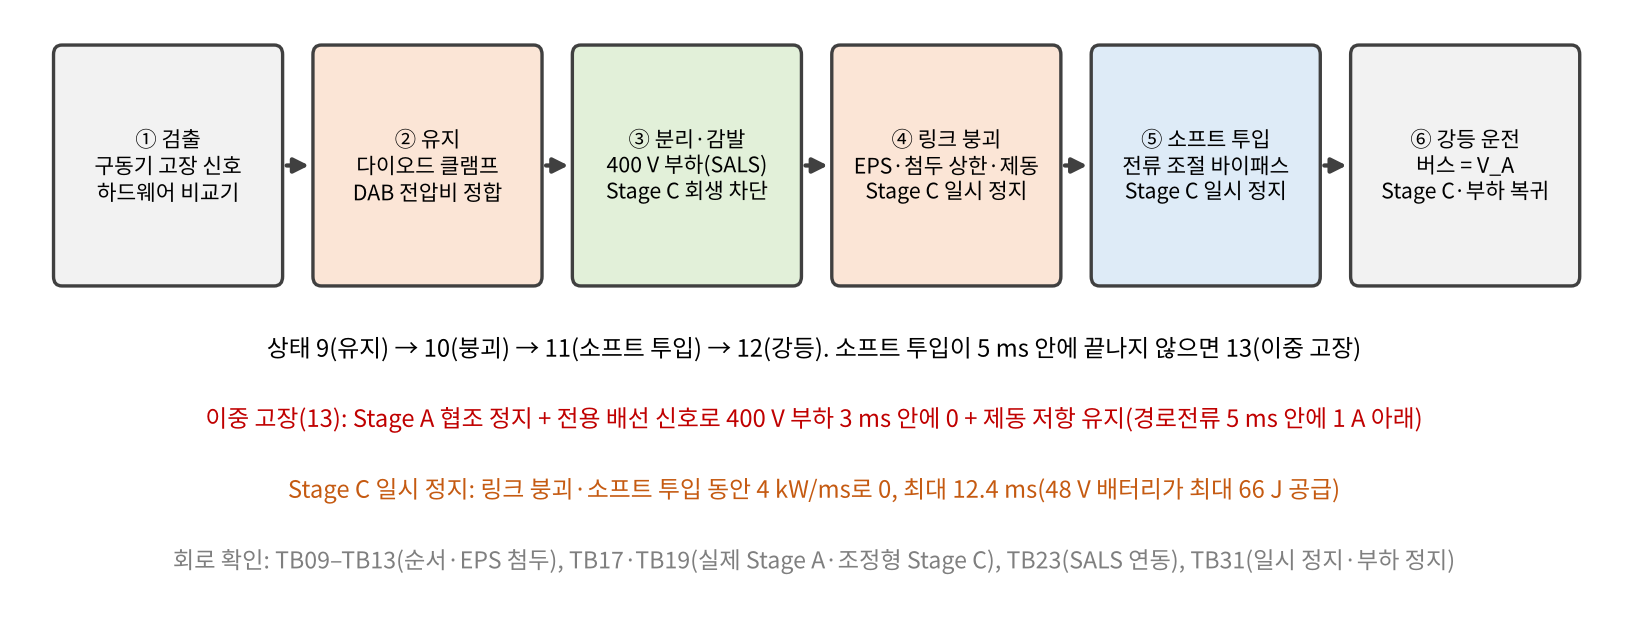
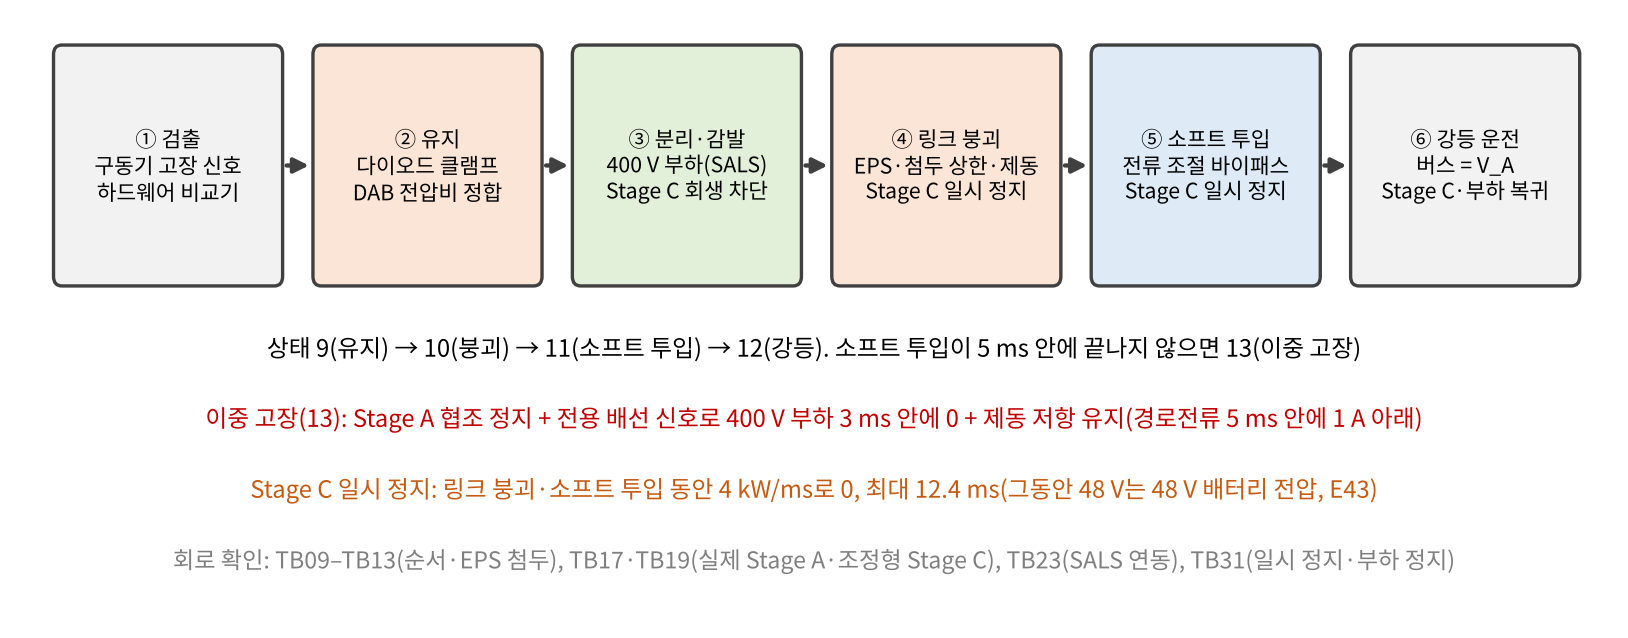
독립 확인 결과 반영: 손실 그림 E43 갱신, 논문 6쪽, docs/20 0절 정정, 근거 범위 문구
- fig6_2 오차막대를 E43 스위칭 배율 경우로 다시 그림(④ 85.9–127.6 W), fig9_1 일시 정지 문구
- 논문 6쪽으로 줄임, 결론·후속 과제에 48 V 배터리 단서, 18.9 mJ 문장 삭제
- docs/20 0절(범위·불통과·자기 가열·정적 등가·30 ms·48 V) 〔정정 2026-11-05〕, README 최종 갱신일
- 기여 1(b) 회로 근거(48 V 포함 TB28·30·32·33), 검토 과정 문장, 요약 결론 5, E43 출처, 클램프 스위치 범위 최대 온도, H3 대표 사례(TB28, 설계 선택 사례 표시), 66 J 구분, 사양 팩 ε −1 % 최대 켜짐 도달, docs/48 배터리 판정 범위

Claude-Session: https://claude.ai/code/session_01Qz3Pq1XT4GoX9UD7qvXAd4

Changed region(s): [[0.1536, 0.7445, 0.86, 0.8041]]

diff --git a/report/final/tex/chapters/ch00_summary.tex b/report/final/tex/chapters/ch00_summary.tex
@@ -16,7 +16,7 @@ PRISM-Hub는 800 V급 전기자동차의 통합 직류 전력 허브다. 처음 
 \item \textbf{R2의 보조 경로 손실은 400 V급 보조부품을 쓰는 기존 방식과 같은 수준이며, 손실을 이점으로 주장하지 않는다(15장).} 같은 손실 규칙과 같은 경부하 기법으로 비교하면 모터·인버터 승압 구조(⑤)와 0.5 \% 차이(101.5 대 102.1 W)이고, 손실 모델 계수에 따라 $-25 \ldots +11$ \%로 부호가 바뀐다. 800 V급 보조부품 설계(⑥)보다는 4--33 W 크다. V\textsubscript{A}가 부품 상한을 넘는 팩에 붙이는 창 조정 모듈도 같은 칸의 다른 성립 구조와 보조 손실이 같은 수준이다(7장). 375 A 충전 손실(입력 120--172.5 kW에서 0.52--0.64 kW)은 전용 승압기(16--50 kHz)의 0.32--0.51배, 모터 승압 기준점(상저항 10 mΩ)의 약 절반이고, 상저항 하한(5 mΩ)과는 같은 수준이다(0.91–1.01배, 920 V에서는 하한보다 6 W 크다).
 \item \textbf{Stage A 손실 모델의 오류를 찾아 설계를 바꿨다(13·14장).} 영전류 스위칭에서도 스위치 출력용량은 하드 스위칭되므로, 원설계(150 kHz)의 위상당 출력용량 손실은 175 W였다(이전 모델 14 W). 영전류 게이트로는 150·100 kHz에서 성립하는 설계가 없었다. 공진주파수를 25 kHz로 낮추고 V\textsubscript{A} 노드 커패시터를 6배로 키운 A25R은 요구 안의 과도·모듈 고장·충전 중 정지를 모델과 회로에서 통과했다. 이전 결론을 A25R로 다시 계산해 바뀐 세 가지를 밝혔다.
 \item \textbf{보조버스와 48 V의 연속성은 시험 종류별로 범위가 다르다(8--12장).} 최종 설계(A25R)의 충전 램프·충전 중 경로 상실·Stage A 모듈 고장 대표 회로에서 버스와 48 V 유지를 확인했다(H3 조건: 충전 전 Stage A 사전 기동, 충전전류 증가 램프 600 µs 이상). 창 조정 모듈의 DAB·H-브리지 고장 강등과 400 V 부하 분리·감발 연동, 48 V 회생 차단은 평균모델과 150 kHz Stage A 회로에서 확인했다. 최종 보호 순서에서는 H-브리지 고장 강등 동안 Stage C가 최대 12.4 ms 멈추므로 그동안 48 V는 48 V 배터리 전압을 따른다. 배터리 등가 계산(E43)에서 무제한 운전 범위(36–52 V) 안이었지만 ±2 \% 조정은 유지되지 않으며, 배터리를 넣은 결합 시험은 하지 않았다.
-\item \textbf{부품 정격을 데이터시트로 판정하고, 남은 불통과를 설계 변경으로 풀었다(16장).} 바이패스 소프트 투입은 링크 붕괴·투입 동안 Stage C를 일시 정지해(최대 12.4 ms) 기존 바이패스 GaN 1개로 통과했고, 이중 고장 경로전류는 400 V 부하를 전용 배선 신호로 3 ms 안에 멈춰 통과했다. V\textsubscript{A} 클램프는 판정 규칙을 보수 쪽으로 바꿀 때마다(공칭 저항 → 저항 공차·온도계수·노화 → 최대 열저항 → 전형값만 있는 손실 인자의 보수 규칙) 다시 골라 네 번 바뀌었다. 최종 설계는 \textbf{가지 3개 × 2.4 Ω + SiC 스위치 FF2MR12KM1P(접합온도 125.1 °C)}이고, 오동작으로 켜진 클램프가 꺼지지 않는 실패 모드를 막는 \textbf{최대 연속 켜짐 시간 0.5 ms}와 문턱 검출 정확도 요구($-1.0 \ldots +0.10$ \%)를 더했다.
+\item \textbf{부품 정격(조건부 후보 선정)을 데이터시트로 판정하고, 그 불통과를 설계 변경으로 풀었다(해당 계산 조건, 16장).} 바이패스 소프트 투입은 링크 붕괴·투입 동안 Stage C를 일시 정지해(최대 12.4 ms) 기존 바이패스 GaN 1개로 통과했고, 이중 고장 경로전류는 400 V 부하를 전용 배선 신호로 3 ms 안에 멈춰 통과했다. V\textsubscript{A} 클램프는 판정 규칙을 보수 쪽으로 바꿀 때마다(공칭 저항 → 저항 공차·온도계수·노화 → 최대 열저항 → 전형값만 있는 손실 인자의 보수 규칙) 다시 골라 네 번 바뀌었다. 최종 설계는 \textbf{가지 3개 × 2.4 Ω + SiC 스위치 FF2MR12KM1P(접합온도 125.1 °C)}이고, 오동작으로 켜진 클램프가 꺼지지 않는 실패 모드를 막는 \textbf{최대 연속 켜짐 시간 0.5 ms}와 문턱 검출 정확도 요구($-1.0 \ldots +0.10$ \%)를 더했다.
 \end{enumerate}
 
 \begin{longtable}{L{0.22\linewidth}L{0.72\linewidth}}

diff --git a/report/final/tex/chapters/ch18_hypotheses.tex b/report/final/tex/chapters/ch18_hypotheses.tex
@@ -111,7 +111,7 @@ E38 & 클램프 한 가지 저항 불성립, 5 ms 정지 램프에서 직렬 114
 \item \textbf{하드웨어 시험이 없다.} 모든 판정은 해석·평균모델·스위칭 모델·소자 수준 회로 모델·데이터시트 대조 안에서만 유효하다. 회로 모델의 스위치 셀은 이상 스위치, 다이오드와 선형 출력용량이며, 게이트 드라이버, 배선 기생성분, 열, 절연과 전자기 간섭은 넣지 않았다.
 \item \textbf{손실 비교는 같은 규칙의 상대 비교다.} 측정된 2:1 하드웨어(100 kW, 전부하 97.4 \%)와 모델의 차가 크다. 최종 설계의 손실 모델은 정격 충전점 회로와 3.0 \% 안에서 맞았다(TB27). 평균모델의 DAB 고정 효율 가정은 구조 간 손실 비교에 쓰지 않는다. 모터 승압 손실은 리플 철손·자석 손실이 없어 하한 쪽이다. E41의 ⑤ 25 kHz 경우는 자성체 손실·크기 증가가 손실 규칙에 없어 ⑤에 유리한 끝값이다. 가치 지도의 공정 기준 재계산(E42)은 Stage A 고정 손실 민감도를 넣지 않았다(확장 전압 격자의 변형이 없음).
 \item \textbf{A25R로 다시 확인하지 않은 것.} 멈춘 모듈 C\textsubscript{fly} 전압 요구(−10–0 V), 225 kW(12–16위상) 충전의 회로, Stage B 보호·강등 시험(E17, E19–E21; V\textsubscript{A}를 이상 전원으로 둠. 이중 고장과 소프트 투입만 다시 확인)이다.
-\item \textbf{Stage A 정적 등가.} V\textsubscript{A} 노드 공진보다 느린 외란에서만 맞는다. C\textsubscript{A} 2.4 mF에서는 C\textsubscript{A}·R\textsubscript{A} 시정수(5–22 µs)가 제어주기보다 길다. 충전 중 보조버스 시험(E16을 A25R 출력저항으로 다시 계산한 E36)의 정적 관계가 모든 판정량에서 보수적이라는 증명은 없다. 공진, 정전력 부하, 제어기 위상과 전류 첨두가 결합하면 전압 변화의 지연만으로 상한을 정할 수 없고, TB07과 TB33은 정적 등가에 없는 순간 동특성을 보였다. 그래서 H3의 최종 설계 결론은 정적 등가의 사례 집합과 결합 모델·회로의 대표 사례(E35 과도 6/6·모듈 고장 16/16, TB27 4/4)로 한정한다.
+\item \textbf{Stage A 정적 등가.} V\textsubscript{A} 노드 공진보다 느린 외란에서만 맞는다. C\textsubscript{A} 2.4 mF에서는 C\textsubscript{A}·R\textsubscript{A} 시정수(5–22 µs)가 제어주기보다 길다. 충전 중 보조버스 시험(E16을 A25R 출력저항으로 다시 계산한 E36)의 정적 관계가 모든 판정량에서 보수적이라는 증명은 없다. 공진, 정전력 부하, 제어기 위상과 전류 첨두가 결합하면 전압 변화의 지연만으로 상한을 정할 수 없고, TB07과 TB33은 정적 등가에 없는 순간 동특성을 보였다. 그래서 H3의 최종 설계 결론은 정적 등가의 사례 집합과 결합 모델·회로의 대표 사례(E35 과도 6/6(설계 선택에 쓴 5사례 포함)·모듈 고장 16/16, TB27 4/4, TB28 4/4)로 한정한다.
 \item \textbf{새 인터페이스 요구의 실제 응답.} Stage C 입력 제한(4 kW/ms 정지·재개)과 400 V 부하(V2L·컴프레서·히터 인버터)의 3 ms 정지는 모델의 가정이다. Stage C 일시 정지 동안의 48 V는 배터리 등가(OCV·내부저항)로만 계산했다(E43: E22 등가에서 41.6–45.7 V, 36 V 유지 요구 R\textsubscript{b} ≤ 57.6 mΩ). 배터리 인덕턴스·온도·SOC와 Stage C 재개 과도를 넣은 결합 시험은 하지 않았다. 따라서 최종 보호 순서의 H-브리지 고장 강등에서 48 V가 ±2 \% 안으로 유지된다고 주장하지 않는다.
 \item \textbf{고전압 팩(224·240s)의 충전 중 정지}는 V\textsubscript{A} 수준 모델만 확인했다(Stage B 결합·회로 없음). R2-W410 회로는 평균모델·스위칭 모의만 있다.
 \item \textbf{회로 시험의 시간 축소.} 400 V 부하 분리(20 → 3 ms), 충전기 정지(30 → 3 ms), SALS 시간(0.15배)을 줄였고 기준값도 같은 축소로 계산했다. 회로의 충전기는 이상 전류원, 클램프 스위치는 이상 스위치, 부품값은 공칭이다. 부하는 계약을 지킨다고 두었다.

diff --git a/report/final/tex/chapters/ch12_charging_stop.tex b/report/final/tex/chapters/ch12_charging_stop.tex
@@ -171,7 +171,7 @@ E39 & + 최대 열저항(없으면 × 1.2), 가지 저항 섞임 & 같은 저항
 \begin{itemize}
 \item \textbf{높은 쪽.} 켬 문턱 468 V와 상한 470 V 사이가 클램프 지연 동안의 상승(약 1.3 V)을 빼면 0.67 V뿐이라, 사양 팩은 ε = +0.10 \%에서 C1 469.80 V로 통과, +0.15 \%에서 470.04 V로 불통과였다. R2-W460은 상한 530 V까지 여유가 커서 +1.0 \%도 통과했다.
 \item \textbf{낮은 쪽.} 고장 없이 t\textsubscript{0} = 1 ms에 클램프를 강제로 켠 오동작 사건에서, ε = −1 \%일 때만 클램프가 켜진 채 붙잡혔다. M이 이를 0.501 ms에 끊었고 다시 켜지지 않았다(가지 ≤ 59–63 J, 스위치 ≤ 102.8 °C).
-\item \textbf{요구 정확도.} 클램프 문턱 검출은 \textbf{사양 팩 −1.0 … +0.10 \%, R2-W460 −1.0 … +1.0 \%}이어야 한다(낮은 쪽은 M이 있을 때). 사양 팩의 +0.10 \%는 엄격하며(C1 469.80 V, 상한까지 0.20 V), 이를 낼 검출 회로는 확인하지 않았다(19장). R2-W460의 +1.0 \%에서는 가지 에너지(3,763.5 J)가 저항 자기 가열 가정(3,750 J)을 0.36 \% 넘었다(외부 검토 2026-11-05). 가정이 정확도 범위 전체의 최대 에너지를 덮도록 3,800 J로 올려 다시 판정했고(E43), 두 팩 모두 정확도 범위의 모든 문턱에서 C1·가지 에너지·스위치 판정을 통과했다(사양 팩 최대 469.80 V·3,408 J·125.1 °C, R2-W460 최대 516.34 V·3,764 J·125.9 °C). 가정을 올려도 모서리 저항은 바뀌지 않아(작은 저항 모서리는 저온 쪽이 정함) 값은 E40과 같았다.
+\item \textbf{요구 정확도.} 클램프 문턱 검출은 \textbf{사양 팩 −1.0 … +0.10 \%, R2-W460 −1.0 … +1.0 \%}이어야 한다(낮은 쪽은 M이 있을 때). 사양 팩의 +0.10 \%는 엄격하며(C1 469.80 V, 상한까지 0.20 V), 이를 낼 검출 회로는 확인하지 않았다(19장). R2-W460의 +1.0 \%에서는 가지 에너지(3,763.5 J)가 저항 자기 가열 가정(3,750 J)을 0.36 \% 넘었다(외부 검토 2026-11-05). 가정이 정확도 범위 전체의 최대 에너지를 덮도록 3,800 J로 올려 다시 판정했고(E43), 두 팩 모두 정확도 범위의 모든 문턱에서 C1·가지 에너지·스위치 판정을 통과했다(사양 팩 최대 469.80 V·3,408 J·125.1 °C, R2-W460 최대 516.34 V·3,764 J·125.9 °C). 가정을 올려도 모서리 저항은 바뀌지 않아(작은 저항 모서리는 저온 쪽이 정함) 값은 E40과 같았다. 이 경로 상실 사건들에서 R2-W460은 모든 문턱에서, 사양 팩은 ε = −1 \%에서 클램프가 최대 연속 켜짐 시간(0.5 ms)에 닿아 강제로 끊겼다(판정은 위와 같이 통과).
 \end{itemize}
 
 회로 확인(TB33)은 TB32 회로에 최종 클램프(가지 1 = 가지 하나, 가지 2 = 나머지 두 가지의 등가)와 최대 연속 켜짐 시간을 넣어 했다(표 \ref{t:tb33}).
@@ -226,7 +226,7 @@ D33b 진단: C33에서 끔 문턱만 400 V(판정 아님) & — & 최대 켜짐 
 \bottomrule
 \endlastfoot
 V\textsubscript{A} 클램프 저항 & 가지 3개 × 891SP 2.4 Ω(R2-W460 2.7 Ω), 가지 저항 에너지 ≤ 3,405·3,729 J(공칭 문턱), 문턱 정확도 범위 안 최대 3,408·3,764 J(정격 15 kJ) & E38, E40, E43 \\
-클램프 스위치 & 가지마다 SiC FF2MR12KM1P(125.1·124.9 °C), 대체 CAB530M12BM3(131.4·131.1 °C), 같은 게이트 & E39, E40 \\
+클램프 스위치 & 가지마다 SiC FF2MR12KM1P(125.1·124.9 °C, 문턱 정확도 범위 안 최대 125.1·125.9 °C), 대체 CAB530M12BM3(131.4·131.1 °C), 같은 게이트 & E39, E40, E43 \\
 클램프 문턱·지연 & 사양 팩 468 V 켬·463 V 끔, R2-W460 511·506 V, 지연 ≤ 1 µs. 적용은 V\textsubscript{bat} 최대 920 V 이하 팩(사양 설정) & E26, E38 \\
 최대 연속 켜짐 시간 & 0.5 ms(설계 변경 M) & E40, TB33 \\
 문턱 검출 정확도 & 사양 팩 −1.0 … +0.10 \%, R2-W460 −1.0 … +1.0 \% & E40 \\

diff --git a/report/final/tex/chapters/ch07_value_map.tex b/report/final/tex/chapters/ch07_value_map.tex
@@ -124,4 +124,4 @@ E 켬 & 930 V, 25 kW & 경로 ≤ 73.4 A, 버스 ≤ 465.4 V, 최종 460.02 V \\
 \item \textbf{보호 오동작.} 하드웨어 버스 과전압 비교기(문턱 = 상한)가 측정 오차·잡음(3σ)·제어 주기 안 리플 여유(0.1 V)로 잘못 차단하지 않는지, 버스 조정 상실 판단(|측정 − V\textsubscript{W}| > 20 V가 0.5 ms)이 잘못 걸리지 않는지 확인했다.
 \end{itemize}
 
-결과는 네 변형 모두 144/144 통과였다. 이상 측정 기준 자체도 창 조정 모듈을 스위칭 수준에서 처음 판정한 것이며 모두 통과했다. S1 변형에서 마지막 1 ms 리플은 최대 0.057 V(기준 0.1 V), 필터전류 꼬리 진동 0.614 A\textsubscript{pp}(기준 1 A), 순시 경로·브리지 전류 90.6 A(기준 98 A)였다. 이득·오프셋 오차는 조정점을 옮겨 실제 버스가 R2-W460에서 457.6–462.4 V로 정착했고, 실제 버스 최대는 466.7 V(R2-W410 417.0 V)로 상한 안이었다. 비교기 쪽 측정 최대는 464.5 V(R2-W410 414.9 V)로 잘못된 차단이 없었고, 조정 상실 판단도 한 번도 걸리지 않았다. 최종 설계 사건의 V\textsubscript{A}·버스 최대는 516.3 V(W460 클램프, 문턱 +1 \%)여서 600 V 범위가 그 1.1배(568 V)를 덮는다. 그래서 S1을 R2의 측정 사양으로 채택했다(3장 표 \ref{t:req}). 한계는 센서를 이득·오프셋·잡음·양자화·포화로만 모델링해 센서 대역폭을 따로 넣지 않았다는 점(지연은 제어 지연 예산에 있음)과, 보호 오동작 확인이 측정 오차를 실제 궤적에 더한 보수 계산이라는 점이다. 창 조정 모듈의 고장 강등(E17·E19–E21)은 이 사양으로 다시 계산하지 않았다.
+결과는 네 변형 모두 144/144 통과였다. 이상 측정 기준 자체도 창 조정 모듈의 Tier-1·Tier-2 계단 전체를 Python 스위칭 모델(E12 방식)로 처음 판정한 것이며(회로 TB08은 5사례) 모두 통과했다. S1 변형에서 마지막 1 ms 리플은 최대 0.057 V(기준 0.1 V), 필터전류 꼬리 진동 0.614 A\textsubscript{pp}(기준 1 A), 순시 경로·브리지 전류 90.6 A(기준 98 A)였다. 이득·오프셋 오차는 조정점을 옮겨 실제 버스가 R2-W460에서 457.6–462.4 V로 정착했고, 실제 버스 최대는 466.7 V(R2-W410 417.0 V)로 상한 안이었다. 비교기 쪽 측정 최대는 464.5 V(R2-W410 414.9 V)로 잘못된 차단이 없었고, 조정 상실 판단도 한 번도 걸리지 않았다. 최종 설계 사건의 V\textsubscript{A}·버스 최대는 516.3 V(W460 클램프, 문턱 +1 \%)여서 600 V 범위가 그 1.1배(568 V)를 덮는다. 그래서 S1을 R2의 측정 사양으로 채택했다(3장 표 \ref{t:req}). 한계는 센서를 이득·오프셋·잡음·양자화·포화로만 모델링해 센서 대역폭을 따로 넣지 않았다는 점(지연은 제어 지연 예산에 있음)과, 보호 오동작 확인이 측정 오차를 실제 궤적에 더한 보수 계산이라는 점이다. 창 조정 모듈의 고장 강등(E17·E19–E21)은 이 사양으로 다시 계산하지 않았다.

diff --git a/report/final/tex/chapters/ch04_verification.tex b/report/final/tex/chapters/ch04_verification.tex
@@ -38,15 +38,12 @@
 
 \section{검토 과정}
 
-검증 결과는 다섯 번의 외부·최종 검토를 거쳤다. 지적은 모두 재현으로 확인한 뒤 판정 기준을 실행 전에 정하고 다시 판정했다.
+검증 결과는 다섯 번의 외부·최종 검토를 거쳤다. 지적은 모두 재현으로 확인했다. 계산이 필요한 지적은 판정 기준을 실행 전에 정해 다시 판정했고, 나머지는 결론과 문구를 고쳤다.
 
 \begin{itemize}
 \item \textbf{외부 검토(2026-10-29).} 손실 비교의 Stage C가 이전 설계였던 점, V\textsubscript{A} 클램프를 공칭 저항값과 125 °C 손실값으로만 판정한 점, 고전압 팩에 사양 팩의 클램프 설정을 쓴 점, 충전 표기·충전 손실 환산 등 여섯 곳을 지적받았다. 모두 재현으로 타당함을 확인하고 다시 계산했다(E38, TB30·TB31).
 \item \textbf{재검토(2026-10-29).} 클램프 스위치를 전형 열저항으로 판정했고 두 가지의 저항이 서로 다른 모서리인 경우를 보지 않았음을 지적받아, 최대 열저항과 가지 저항 섞임으로 다시 판정했다(E39, TB32).
 \item \textbf{보고서 작성 전 최종 검토(2026-10-29).} 검토자 여섯이 최종 수치·부품 정격·진행 기록·재현·참고문헌·공학적 근거를 나눠 다시 보았다. 판정·결론에 영향을 줄 수 있는 지적 네 가지(클램프 스위치의 전형값 손실 인자, ④ 대 ⑤ 비교의 공정성, 클램프 문턱 오차에 따른 계속 켜짐, C\textsubscript{A} 후보 표)를 E40·E41·TB33으로 정리했다. 핵심 수치 재실행 10개 부분은 저장 결과와 같았다.
-\end{itemize}
-
-\begin{itemize}
 \item \textbf{최종 보고서 독립 검토(2026-11-03).} 가치 지도의 ①이 보조 강압기를 경부하 셰딩 없이 두어 비교 조건이 공정하지 않음을 지적받아 공정 기준으로 다시 계산했다(E42). 창 조정 모듈의 보조 손실 이점 주장을 거두었다.
 \item \textbf{제출 전 외부 검토(2026-11-05).} 버스 측정 범위(350–450 V)가 최종 창 조정 설계와 맞지 않는 점, 최종 보호 순서의 48 V 유지가 배터리 없이 주장된 점, 정적 등가의 보수성 단정, 손실 민감도의 스위칭 배율이 Stage A 출력용량 항에 빠진 점, 클램프 자기 가열 가정이 문턱 정확도 끝에서 부족한 점, 사전 기준·불통과 표현, ISO·충전기 시험 항목의 적용 범위, 출력용량 손실의 소모 위치 설명, 참고문헌·조판을 지적받았다. 계산이 필요한 네 가지는 E43으로 다시 판정했고, 나머지는 결론과 문구의 범위를 좁혔다.
 \end{itemize}

diff --git a/report/final/tex/chapters/ch09_protection.tex b/report/final/tex/chapters/ch09_protection.tex
@@ -311,7 +311,7 @@ Stage A를 A25R로 바꾸고 부품 정격을 데이터시트로 판정하자(16
 
 두 문제를 부하 쪽 설계 변경으로 풀었다(E38). 판정 기준은 원 시험(E29)과 부품 정격 표의 것을 그대로 썼다.
 
-\textbf{Stage C 보호 일시 정지.} H-브리지 고장 강등의 링크 붕괴와 소프트 투입 동안 Stage C를 4 kW/ms로 0까지 줄여 멈추고, 강등 0.5 ms 뒤 다시 켠다. 허브 내부의 제어이고, 멈춤 시간은 8.7–12.4 ms, 그 동안 48 V 배터리가 맡는 에너지는 최대 66 J다. 이 동안 48 V는 Stage C가 조정하지 않고 배터리 전압을 따르며, 무제한 운전 범위(36–52 V)를 지키는 배터리 요구는 10장에 도출했다(E43). 결과는 연동 강등 74/74, 시간 상한 투입 30사례 → 0사례, 최악 소프트 투입 에너지 0.036 J·첨두 104 W, EPC2305 1개의 접합온도 108.0 °C(통과, 16장의 보수 규칙으로 109.6 °C)다. 별도 선형 소자가 필요 없고, 강등 완료는 0.5–2.3 ms 빨라졌으며 제동 에너지 최대는 51.9 J다.
+\textbf{Stage C 보호 일시 정지.} H-브리지 고장 강등의 링크 붕괴와 소프트 투입 동안 Stage C를 4 kW/ms로 0까지 줄여 멈추고, 강등 0.5 ms 뒤 다시 켠다. 허브 내부의 제어이고, 멈춤 시간은 8.7–12.4 ms, 그 동안 48 V 배터리가 맡는 부하 쪽 에너지는 최대 66 J다(배터리 방전은 내부 손실을 더해 65–75 J, E43). 이 동안 48 V는 Stage C가 조정하지 않고 배터리 전압을 따르며, 무제한 운전 범위(36–52 V)를 지키는 배터리 요구는 10장에 도출했다(E43). 결과는 연동 강등 74/74, 시간 상한 투입 30사례 → 0사례, 최악 소프트 투입 에너지 0.036 J·첨두 104 W, EPC2305 1개의 접합온도 108.0 °C(통과, 16장의 보수 규칙으로 109.6 °C)다. 별도 선형 소자가 필요 없고, 강등 완료는 0.5–2.3 ms 빨라졌으며 제동 에너지 최대는 51.9 J다.
 
 \textbf{이중 고장의 400 V 부하 정지.} 이중 고장에 들어가면 Stage A를 멈추고, 전용 배선 신호로 모든 400 V 부하(Stage C 포함)를 정해진 램프로 0까지 줄인다. V\textsubscript{A} 노드 방전 저항은 두지 않는다. 램프 시간을 바꿔 가며 계산한 결과는 표 \ref{t:f2}와 같다.
 

diff --git a/report/final/tex/chapters/ch14_recalc.tex b/report/final/tex/chapters/ch14_recalc.tex
@@ -41,11 +41,11 @@ R2 버스(E23) & 기본형 3사례, 버스 임피던스 & E23과 같은 기준 \
 \begin{longtable}{L{\dimexpr 0.24\linewidth-2\tabcolsep\relax}L{\dimexpr 0.22\linewidth-2\tabcolsep\relax}L{\dimexpr 0.22\linewidth-2\tabcolsep\relax}L{\dimexpr 0.25\linewidth-2\tabcolsep\relax}L{\dimexpr 0.07\linewidth-2\tabcolsep\relax}}
 \caption{150 kHz 설계 값, A25R 재계산 값(E36), 최종 값}\label{t:recalc}\\
 \toprule
-\tabhead \textbf{항목} & \textbf{150 kHz(중간보고서)} & \textbf{A25R(E36)} & \textbf{최종(E38–E41)} & \textbf{장} \\
+\tabhead \textbf{항목} & \textbf{150 kHz(중간보고서)} & \textbf{A25R(E36)} & \textbf{최종(E38–E43)} & \textbf{장} \\
 \midrule
 \endfirsthead
 \toprule
-\tabhead \textbf{항목} & \textbf{150 kHz(중간보고서)} & \textbf{A25R(E36)} & \textbf{최종(E38–E41)} & \textbf{장} \\
+\tabhead \textbf{항목} & \textbf{150 kHz(중간보고서)} & \textbf{A25R(E36)} & \textbf{최종(E38–E43)} & \textbf{장} \\
 \midrule
 \endhead
 \bottomrule
@@ -91,7 +91,7 @@ A25R 재계산(E36)에서 바뀐 결론은 세 가지였다.
 
 \begin{itemize}
 \item \textbf{H5 기각.} ③은 ④에 손실·VA·위치 세 지표 모두 뒤진다(E36, E38). 손실 계수 감도와 운전 프로파일 3종에서도 같다.
-\item \textbf{충전 중 보조버스(H3)와 R2 버스·48 V.} E16·E23의 원 기준을 모두 통과했다(8.2절, 10.4절). H3의 조건은 사전 기동과 600 µs 램프로 바뀌었다.
+\item \textbf{충전 중 보조버스(H3)와 R2 버스·48 V.} E16·E23의 원 기준을 모두 통과했다(8.2절, 10.4절. E16은 Stage A 정적 등가로 다시 계산했고, 그 보수성은 증명하지 않았다, 18.4절). H3의 조건은 사전 기동과 600 µs 램프로 바뀌었다.
 \item \textbf{충전 중 정지에 클램프가 필요하다는 결론.} 920 V 충전에서는 클램프 없이 0.1 ms 안에 470 V에 닿는다. 회로 TB28은 4/4로 통과했고(12.4절), 새로 넣은 충전기 급정지(10 µs) 사례도 6/6 통과했다.
 \item \textbf{Stage A 충전 경로의 이점.} 375 A 충전 손실(0.52–0.64 kW)은 전용 승압기와 모터 승압 기준점보다 작다(15장).
 \end{itemize}

diff --git a/report/final/tex/chapters/ch16_parts.tex b/report/final/tex/chapters/ch16_parts.tex
@@ -31,7 +31,7 @@ P1 & Stage A 스위치 & Wolfspeed C4MS008075U2 × 2(위치당) & 차단 518 V, 
 P2 & 플라잉 커패시터 46.9 µF & CastorCap CC7.5u1300 × 6(위상당 45.0 µF) & 위상 실효 52.5 A(공차 표본 60.9 A) & \textbf{통과, 단서}: 전류 정격이 30 °C 기준, 용량 −4.0 \%(f\textsubscript{r} +2.1 \%) \\
 P3 & 공진 인덕터 864.6 nH & 공심 코일 지름 60 mm·3.6회·Litz 15.2 mm\textsuperscript{2} & 첨두 169.3 A(금지 조건), 실효 60.9 A & \textbf{요구·설계 추정}: 손실 3.1–4.2 W, 포화 없음 \\
 P4 & V\textsubscript{A} 클램프 저항 & Ohmite 891SP 2.4 Ω × 3(R2-W460 2.7 Ω × 3) & 가지 에너지 ≤ 3,405·3,729 J(공칭 문턱, 문턱 정확도 범위 안 최대 3,408·3,764 J, E43), 가지 전류 ≤ 262·255 A(범위 안 최대 263·257 A) & \textbf{조건부 통과}: 15 kJ의 23·25 \%. 저항값별 허용치는 제조사 확인 \\
-P5 & V\textsubscript{A} 클램프 스위치 & Infineon FF2MR12KM1P(가지마다), 대체 Wolfspeed CAB530M12BM3 & 사건 평균 손실 최대 481.5 W(스위칭 74 \%) & \textbf{통과}: 125.1·124.9 °C(대체 131.4·131.1 °C), 한도 150 °C. 단서: 열 기준점이 다름, FF2MR12KM1P는 2020년 예비 데이터시트 \\
+P5 & V\textsubscript{A} 클램프 스위치 & Infineon FF2MR12KM1P(가지마다), 대체 Wolfspeed CAB530M12BM3 & 사건 평균 손실 최대 481.5 W(스위칭 74 \%) & \textbf{통과}: 125.1·124.9 °C(문턱 정확도 범위 안 최대 125.1·125.9 °C, E43; 대체 131.4·131.1 °C), 한도 150 °C. 단서: 열 기준점이 다름, FF2MR12KM1P는 2020년 예비 데이터시트 \\
 P6 & 바이패스 소프트 투입 & EPC2305(바이패스 GaN) 1개 + Stage C 일시 정지 & 최악 0.036 J·104 W(74사례) & \textbf{통과}: 109.6 °C(규칙 L) \\
 P7 & H-브리지 역방향 도통(이중 고장) & EPC2305 × 2 & 소자 최대 32.7 A, 400 V 부하 정지 3 ms & \textbf{통과}: 100.6 °C(규칙 L) \\
 P8 & 링크 제동 저항 3 Ω & Vishay LTO 150H & 제동 에너지 최대 51.9 J & \textbf{조건부 통과}: 반복 펄스 52.8 J(단발 75.5 J × 0.7) 대비 98 \%. 0.1 s보다 짧은 펄스 곡선 대조는 남음 \\

diff --git a/report/final/tex/chapters/ch03_requirements.tex b/report/final/tex/chapters/ch03_requirements.tex
@@ -30,7 +30,7 @@
 고장 강등 & 경로·필터 ≤ 100 A, 직렬·링크 ≤ 120 V, 바이패스 ≤ 329 A, 버스 ≥ 260 V, 400 V 부하 연결 중 버스 ≤ 상한, 강등 상태 도달 & E17·TB09 \\
 강등 중 DAB 첨두 & 링크 쪽 순시 첨두 ≤ 1.5 × 정격점 첨두(R2-W460 68.7 A, R2-W410 90.0 A) & 도출(E20) \\
 보호 하드웨어 & 링크 제동 저항 3 Ω(제동 에너지 ≤ 51.9 J, 반복 펄스 정격 52.8 J 안), 바이패스 게이트 선형 영역 구동, 400 V 부하 분리 경로 & 도출(E17, E40) \\
-Stage C 보호 일시 정지 & 링크 붕괴·소프트 투입 동안 4 kW/ms로 입력을 0으로, 최대 12.4 ms. 그동안 48 V는 48 V 배터리가 맡고(약 66 J), Stage C의 ±2 \% 조정은 적용되지 않는다(48 V = 배터리 전압). 배터리 요구: 36 V 이상 유지에 OCV 44 V에서 내부저항 ≤ 57.6 mΩ, 방전 전류 ≥ 139 A(12.4 ms) & 도출(E38, E43) \\
+Stage C 보호 일시 정지 & 링크 붕괴·소프트 투입 동안 4 kW/ms로 입력을 0으로, 최대 12.4 ms. 그동안 48 V는 48 V 배터리가 맡고(부하 쪽 약 66 J, 배터리 방전 65–75 J, E43), Stage C의 ±2 \% 조정은 적용되지 않는다(48 V = 배터리 전압). 배터리 요구: 36 V 이상 유지에 OCV 44 V에서 내부저항 ≤ 57.6 mΩ, 방전 전류 ≥ 139 A(12.4 ms) & 도출(E38, E43) \\
 이중 고장 400 V 부하 정지 & 전용 배선 신호 뒤 3 ms 안에 0(방전 저항 없음) & 도출(E38) \\
 48 V 회생 차단 & 고장 검출 뒤 R2-W460 ≤ 1.0 ms·R2-W410 ≤ 0.5 ms 안에 시작, 4 kW/ms & 도출(E29) \\
 400 V급 급속충전 / 48·12 V 전원 & 피크 150 kW·375 A 제한(375 A 정전류에서 640·800·920 V 입력 120·150·172.5 kW) / 48 V 3 kW + 12 V 1.5 kW 동시(Stage C 5 kW), 48 V 회생 −3 kW & 부하 등급 \\

diff --git a/report/final/figs_final.py b/report/final/figs_final.py
@@ -77,7 +77,7 @@ def fig9_1():
             ha="center", va="center", fontsize=7.8)
     ax.text(7.4, 1.6, "이중 고장(13): Stage A 협조 정지 + 전용 배선 신호로 400 V 부하 3 ms 안에 0 + 제동 저항 유지(경로전류 5 ms 안에 1 A 아래)",
             ha="center", va="center", fontsize=7.8, color=C["red"])
-    ax.text(7.4, 1.0, "Stage C 일시 정지: 링크 붕괴·소프트 투입 동안 4 kW/ms로 0, 최대 12.4 ms(48 V 배터리가 최대 66 J 공급)",
+    ax.text(7.4, 1.0, "Stage C 일시 정지: 링크 붕괴·소프트 투입 동안 4 kW/ms로 0, 최대 12.4 ms(그동안 48 V는 48 V 배터리 전압, E43)",
             ha="center", va="center", fontsize=7.8, color=C["orange"])
     ax.text(7.4, 0.4, "회로 확인: TB09–TB13(순서·EPS 첨두), TB17·TB19(실제 Stage A·조정형 Stage C), TB23(SALS 연동), TB31(일시 정지·부하 정지)",
             ha="center", va="center", fontsize=7.6, color=C["gray"])
@@ -87,6 +87,11 @@ def fig9_1():
 def fig6_2():
     d = json.loads((RES / "E41" / "fair.json").read_text(encoding="utf-8"))
     cases = d["cases"]; fair = cases["공정 기준(F1)"]["drive_typ"]; old = cases["E38 기준(셰딩 없음)"]["drive_typ"]
+    # (E43) 스위칭 × 0.7·× 1.5는 Stage A 출력용량 항에도 배율을 준 값으로 바꾼다(외부 검토 2026-11-05)
+    e43 = json.loads((RES / "E43" / "loss.json").read_text(encoding="utf-8"))["e41"]["cases"]
+    cases = dict(cases)
+    for tag in ("스위칭 × 0.7", "스위칭 × 1.5"):
+        cases[tag] = e43[tag]["new"]
     sens = [k for k in cases if k not in ("E38 기준(셰딩 없음)",)]
     lo = {s: min(cases[k]["drive_typ"][s] for k in sens) for s in ("4", "5", "6")}
     hi = {s: max(cases[k]["drive_typ"][s] for k in sens) for s in ("4", "5", "6")}
